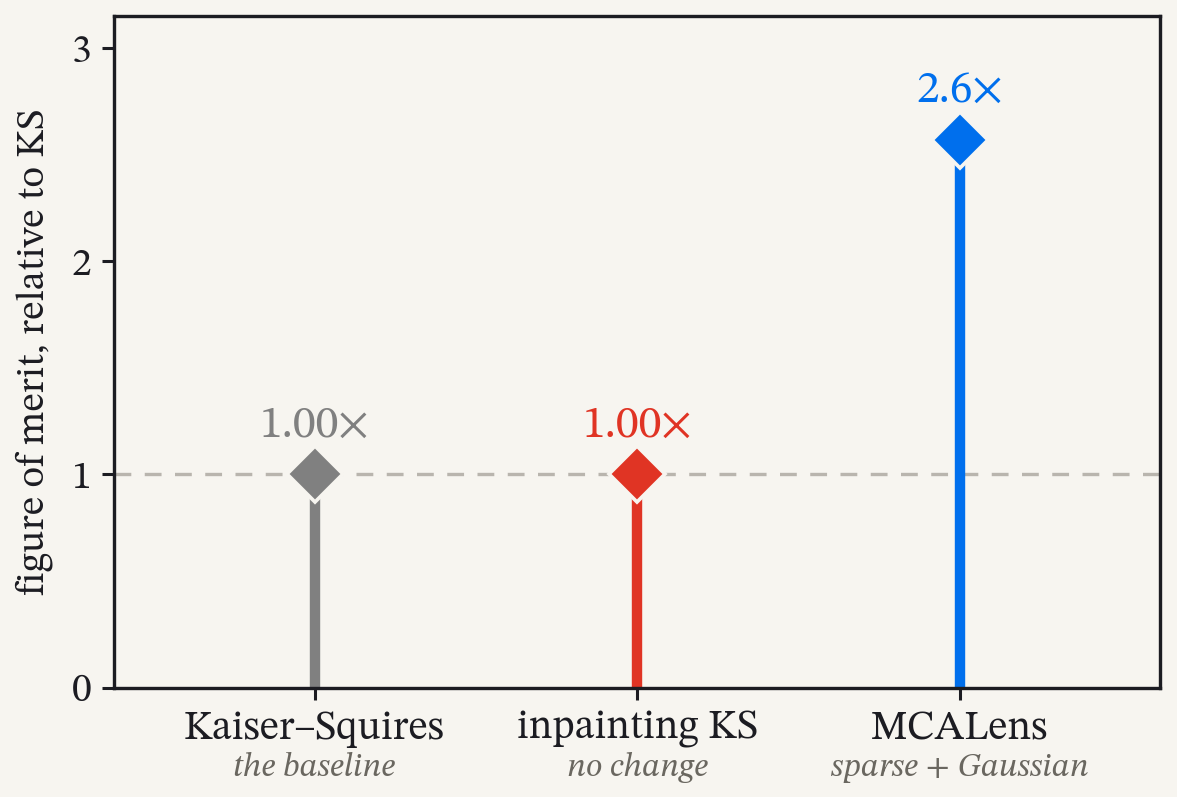
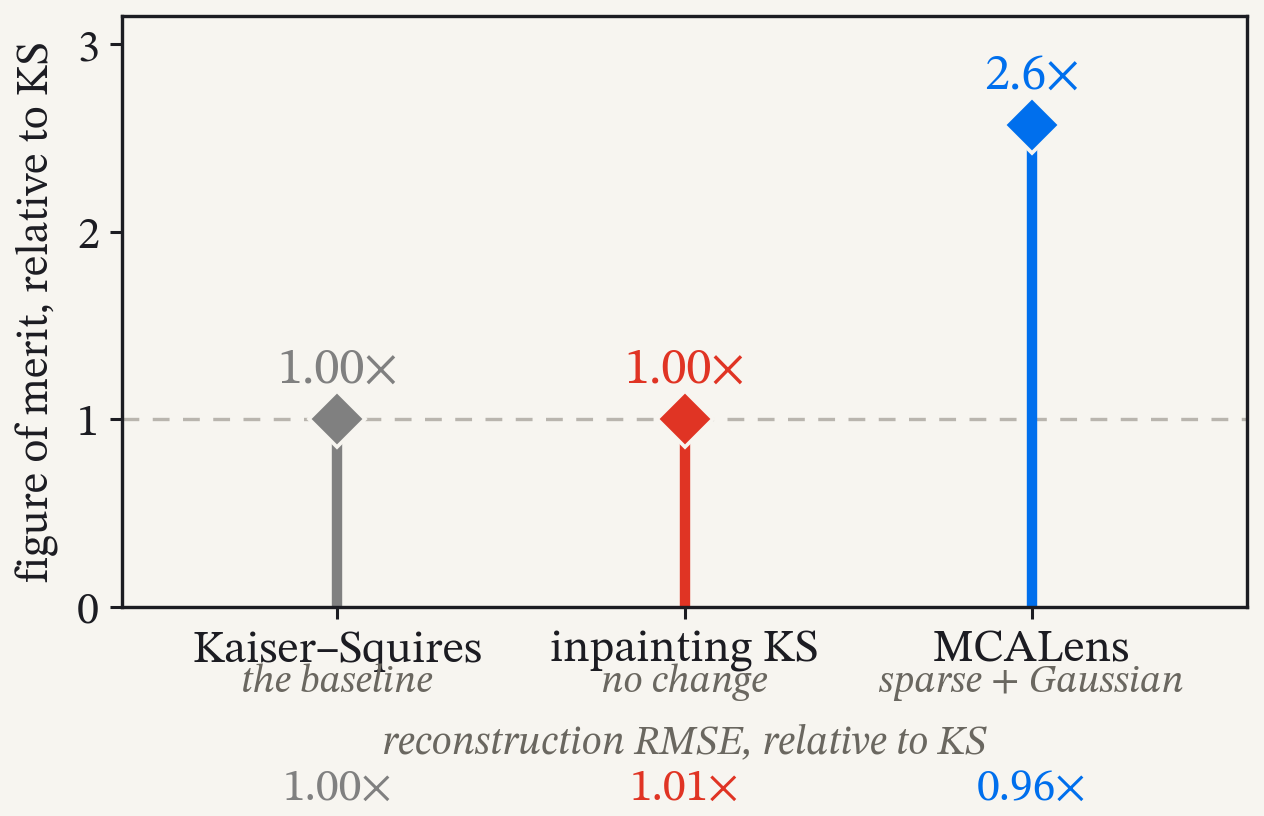
feat(PhD_Defense_2026): frame 19 shows the RMSE it claims
The slide says MCALens improves the RMSE by 4 % and the figure of merit by
157 %, and only the second number was drawn. The stems figure now carries the
RMSE ratios under the same three columns, colour-matched to the methods, so the
contrast is the figure's own: the row ABOVE the diamonds spreads 1.00 / 1.00 /
2.6, the row BELOW the axis barely moves, 1.00 / 1.01 / 0.96.

Ratios rather than the absolutes from PAPER_FACTS 105 (1018 / 1023 / 976,
x1e-5), because 1018 against 976 has to be turned into "4 %" in the head.

CAVEAT for the notes, PAPER_FACTS 114: these are NOT the same maps. The RMSE
table smooths each map with the kernel minimising its own RMSE (2'), the FoM
analysis with the kernel maximising constraining power (1'). That is the point
rather than a flaw -- the two objectives differ -- but putting both numbers in
one figure invites the question, and it is recorded in the generator.

While in there: the figure's own labels were under the type floor and nobody had
checked, because a raster figure is invisible to the CSS audit. At max-height
300px it displayed at 0.37x native, putting its 11-13pt labels at 13-16px on the
canvas. Type raised inside massmapping() only, and the cap raised to 360px --
the slide had 99px of slack. Every label now clears 17px: subs 17.5, RMSE label
18.2, values and names 20.2, tags 22.2. Slide 625 of 720.

fom_summaries_stems.png is deliberately NOT in this commit. Re-running the
[…]

Changed region(s): [[0.0612, 0.0301, 1.0, 0.9937], [0.0, 0.0301, 0.1223, 0.7528], [0.2141, 0.4216, 0.3059, 0.6324]]

diff --git a/PhD_Defense_2026/index.html b/PhD_Defense_2026/index.html
@@ -1375,7 +1375,7 @@
 									<li>MCALens improves the RMSE by only <b>4 %</b>, but the figure of merit by <b
 											class="alert">157 %</b></li>
 									<li>&rArr; WL surveys should use <b class="alert">advanced reconstruction</b>
-										methods.</li>
+										methods to maximise their scientific outputs.</li>
 							</div>
 						</div>
 					</div>
@@ -3301,7 +3301,7 @@
 							</div>
 						</div>
 					</div>
-					<span class="srcref">Tersenov+, submitted</span>
+					<!-- <span class="srcref">Tersenov+, submitted</span> -->
 					<aside class="notes">Read the result plainly: the two are not far apart, the CNN wins by 36 per cent in
 						FoM3. [CLICK] Then only that the comparison is not symmetric and leaves something important out.
 						Do NOT name the tomography here; the next slide explains it. Script A3.20 is the authority.

diff --git a/PhD_Defense_2026/custom.css b/PhD_Defense_2026/custom.css
@@ -587,6 +587,12 @@
 .reveal .slides section .stemfig { margin: 0; }
 .reveal .slides section .stemfig img { max-width: 100%; height: auto; }
 
+/* 2026-09-11: the stems figure carries the RMSE row now, so it is taller, and at
+   max-height 300px it displayed at 0.37x native -- which put its own labels at 15-17px
+   on the canvas, under the floor. The slide had 99px of slack; 360px spends it and the
+   figure's type clears 17px. This is the LAST rule for the selector (REVEAL-GOTCHAS 4b). */
+.reveal .slides section .resultcol .stemfig img { max-height: 360px; }
+
 /* Kept for the one surviving .ladder (frame 66, backup) and for the two parked
    in index.html.  The rungs must not borrow the Wong l1/CNN pair, which encodes
    the summary statistic in Act 4 (TALK-GUIDELINES 4.5). */

diff --git a/tools/make-fom-stems.py b/tools/make-fom-stems.py
@@ -93,10 +93,12 @@ def massmapping():
     subs  = ["the baseline", "no change", "sparse + Gaussian"]
     vals  = [1.00, 1.00, 2.57]
     tags  = ["1.00×", "1.00×", "2.6×"]
+    # reconstruction RMSE relative to KS: 1018 / 1023 / 976 (x1e-5) -> PAPER_FACTS 105
+    rmse_tags = ["1.00×", "1.01×", "0.96×"]
     cols  = ["#808080", "#e03424", "#006fed"]
     xs    = [0, 1, 2]
 
-    fig, ax = plt.subplots(figsize=(5.5, 3.95))
+    fig, ax = plt.subplots(figsize=(5.9, 4.85))
     fig.patch.set_facecolor(PAPER)
     frame(ax)
 
@@ -105,22 +107,40 @@ def massmapping():
 
     for x, v, t, c in zip(xs, vals, tags, cols):
         ax.text(x, v + 0.13, t, ha="center", va="bottom",
-                fontsize=15, color=c)
+                fontsize=16.5, color=c)
 
     ax.set_xlim(-0.62, 2.62)
     ax.set_ylim(0, 3.15)
     ax.set_yticks([0, 1, 2, 3])
-    ax.set_yticklabels(["0", "1", "2", "3"], fontsize=13)
+    ax.set_yticklabels(["0", "1", "2", "3"], fontsize=14.5)
     ax.set_ylabel("figure of merit, relative to KS",
-                  fontsize=13, color=INK, labelpad=6)
+                  fontsize=14.5, color=INK, labelpad=6)
     ax.set_xticks(xs)
-    ax.set_xticklabels(names, fontsize=13.5, color=INK)
+    ax.set_xticklabels(names, fontsize=15, color=INK)
     for x, s in zip(xs, subs):
-        ax.text(x, -0.30, s, ha="center", va="top", fontsize=11,
+        ax.text(x, -0.30, s, ha="center", va="top", fontsize=13,
                 color=MUTED, style="italic", transform=ax.transData,
                 clip_on=False)
 
-    fig.tight_layout(rect=(0, 0.045, 1, 1))
+    # The RMSE row, added 2026-09-11. The slide claims MCALens improves the RMSE by
+    # 4 % and the figure of merit by 157 %, and until now only the second number was
+    # drawn. Putting the ratios under the same three columns makes the contrast the
+    # figure's own: the row ABOVE the diamonds spreads 1.00 / 1.00 / 2.6, the row
+    # BELOW the axis barely moves. Ratios rather than the absolutes (1018 / 1023 /
+    # 976, x1e-5) because 1018 against 976 has to be turned into "4 %" in the head.
+    #
+    # CAVEAT, PAPER_FACTS 114: these are NOT the same maps. The RMSE table smooths
+    # each map with the kernel minimising its own RMSE (2'), the FoM analysis with
+    # the kernel maximising constraining power (1'). That is the point rather than a
+    # flaw -- the two objectives are different -- but it must be in the notes.
+    ax.text(1.0, -0.62, "reconstruction RMSE, relative to KS", ha="center", va="top",
+            fontsize=13.5, color=MUTED, style="italic", transform=ax.transData,
+            clip_on=False)
+    for x, rt, c in zip(xs, rmse_tags, cols):
+        ax.text(x, -0.86, rt, ha="center", va="top", fontsize=15,
+                color=c, transform=ax.transData, clip_on=False)
+
+    fig.tight_layout(rect=(0, 0.135, 1, 1))
     out = "assets/figures/statistics/fom_massmapping_stems.png"
     fig.savefig(out, dpi=220, facecolor=PAPER)
     trim(out)
@@ -166,7 +186,7 @@ def summaries():
         ax.text(x, -830, s, ha="center", va="top", fontsize=10.5,
                 color=MUTED, style="italic", linespacing=1.25, clip_on=False)
 
-    fig.tight_layout(rect=(0, 0.10, 1, 1))
+    fig.tight_layout(rect=(0, 0.135, 1, 1))
     out = "assets/figures/statistics/fom_summaries_stems.png"
     fig.savefig(out, dpi=220, facecolor=PAPER)
     trim(out)
